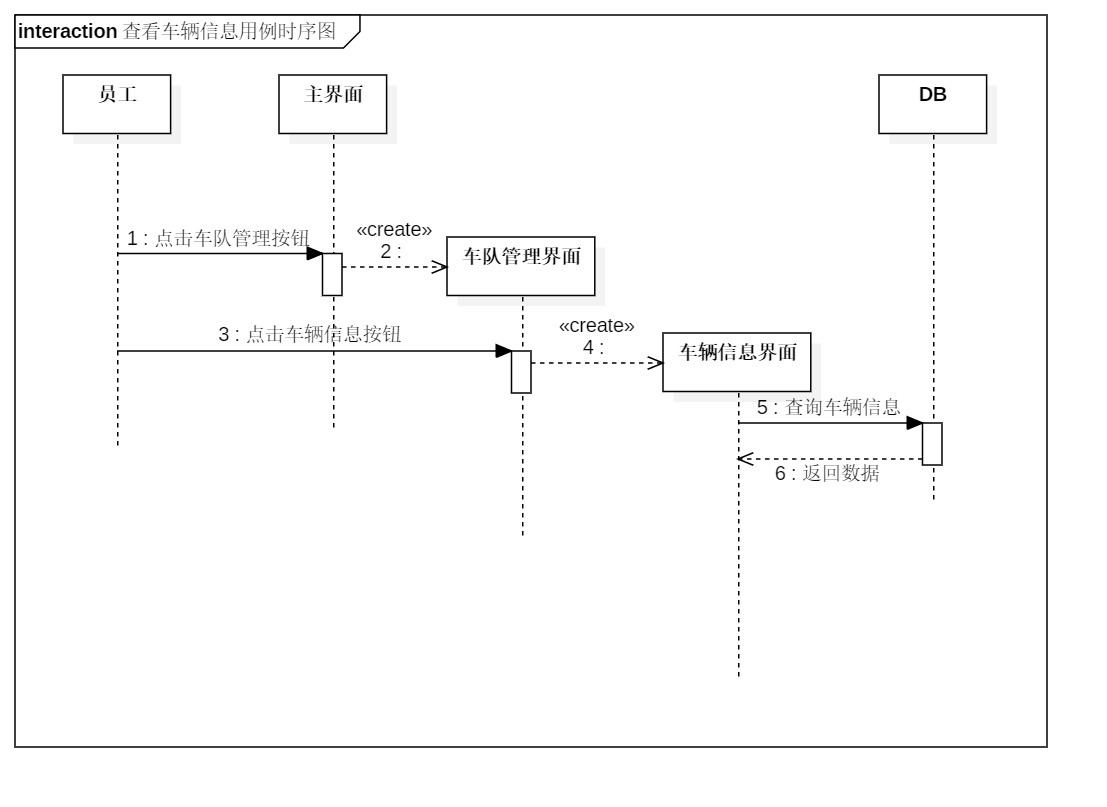
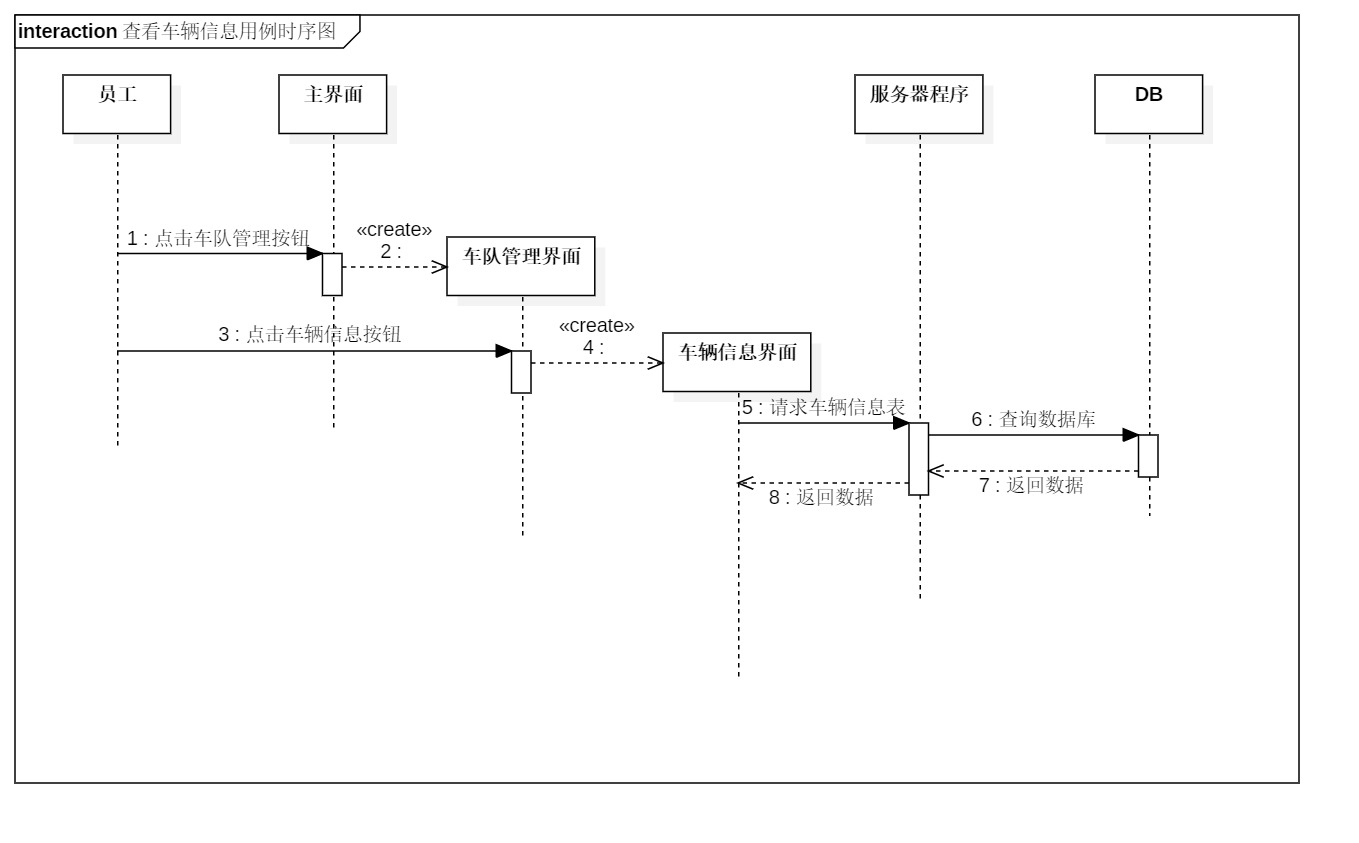
创建服务器部分

diff --git a/The-Three/src/db/Database.java b/The-Three/src/db/Database.java
@@ -1,17 +1,42 @@
 package db;
 
+import java.io.DataInputStream;
+import java.io.DataOutputStream;
+import java.io.IOException;
+import java.net.Socket;
+import java.net.UnknownHostException;
 import java.util.ArrayList;
 
 import entity.Car;
 
 public class Database {
+	private static String addr="cal.srcserver.xyz";
 	public Database() {
 		
 	}
 
 	public static Car[] getCarInfo() {
 		// TODO Auto-generated method stub
-		
+		try {
+			Socket socket= new Socket(addr,8080);
+			DataInputStream input=new DataInputStream(socket.getInputStream());
+			DataOutputStream output=new DataOutputStream(socket.getOutputStream());
+			output.writeChars("1");
+			output.flush();
+			String raw_string=input.readLine();
+			String[] data=raw_string.split("#");
+			Car[] res=new Car[data.length/4];
+			for(int i=0;i<data.length;i+=4) {
+				res[i/4]=new Car(data[i+0],Integer.valueOf(data[i+1]),Integer.valueOf(data[i+2]),Integer.valueOf(data[i+3]));
+			}
+			return res;
+		} catch (UnknownHostException e) {
+			// TODO Auto-generated catch block
+			e.printStackTrace();
+		} catch (IOException e) {
+			// TODO Auto-generated catch block
+			e.printStackTrace();
+		}
 		return null;
 	}
 }

diff --git a/The-Three-Server/src/main/Server.java b/The-Three-Server/src/main/Server.java
@@ -1,0 +1,16 @@
+package main;
+
+import java.io.IOException;
+import java.net.ServerSocket;
+import java.net.Socket;
+
+public class Server {
+	public static void main(String[] args) throws IOException {
+		// TODO Auto-generated method stub
+		newThread();
+	}
+	public static void newThread() {
+		Thread t=new Thread(new ServerTask());
+		t.start();
+	}
+}
